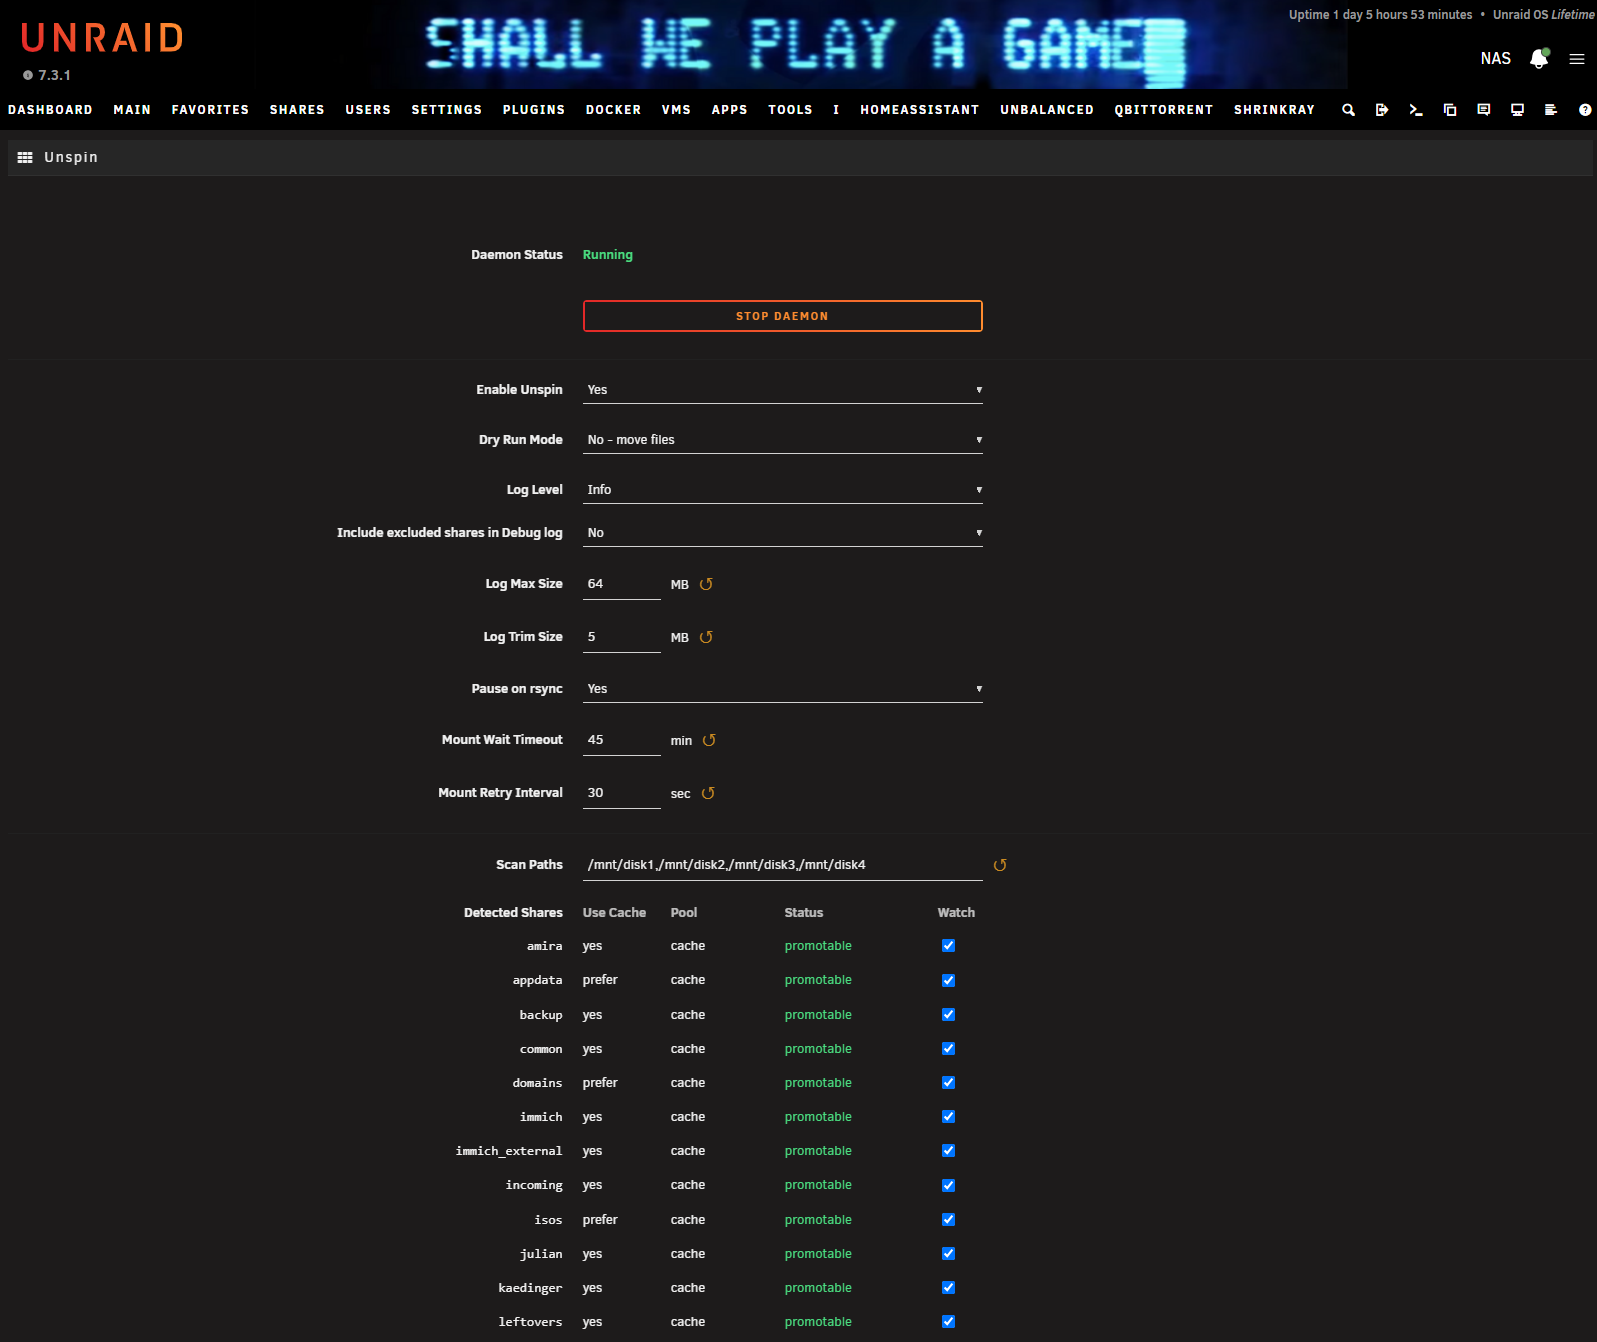
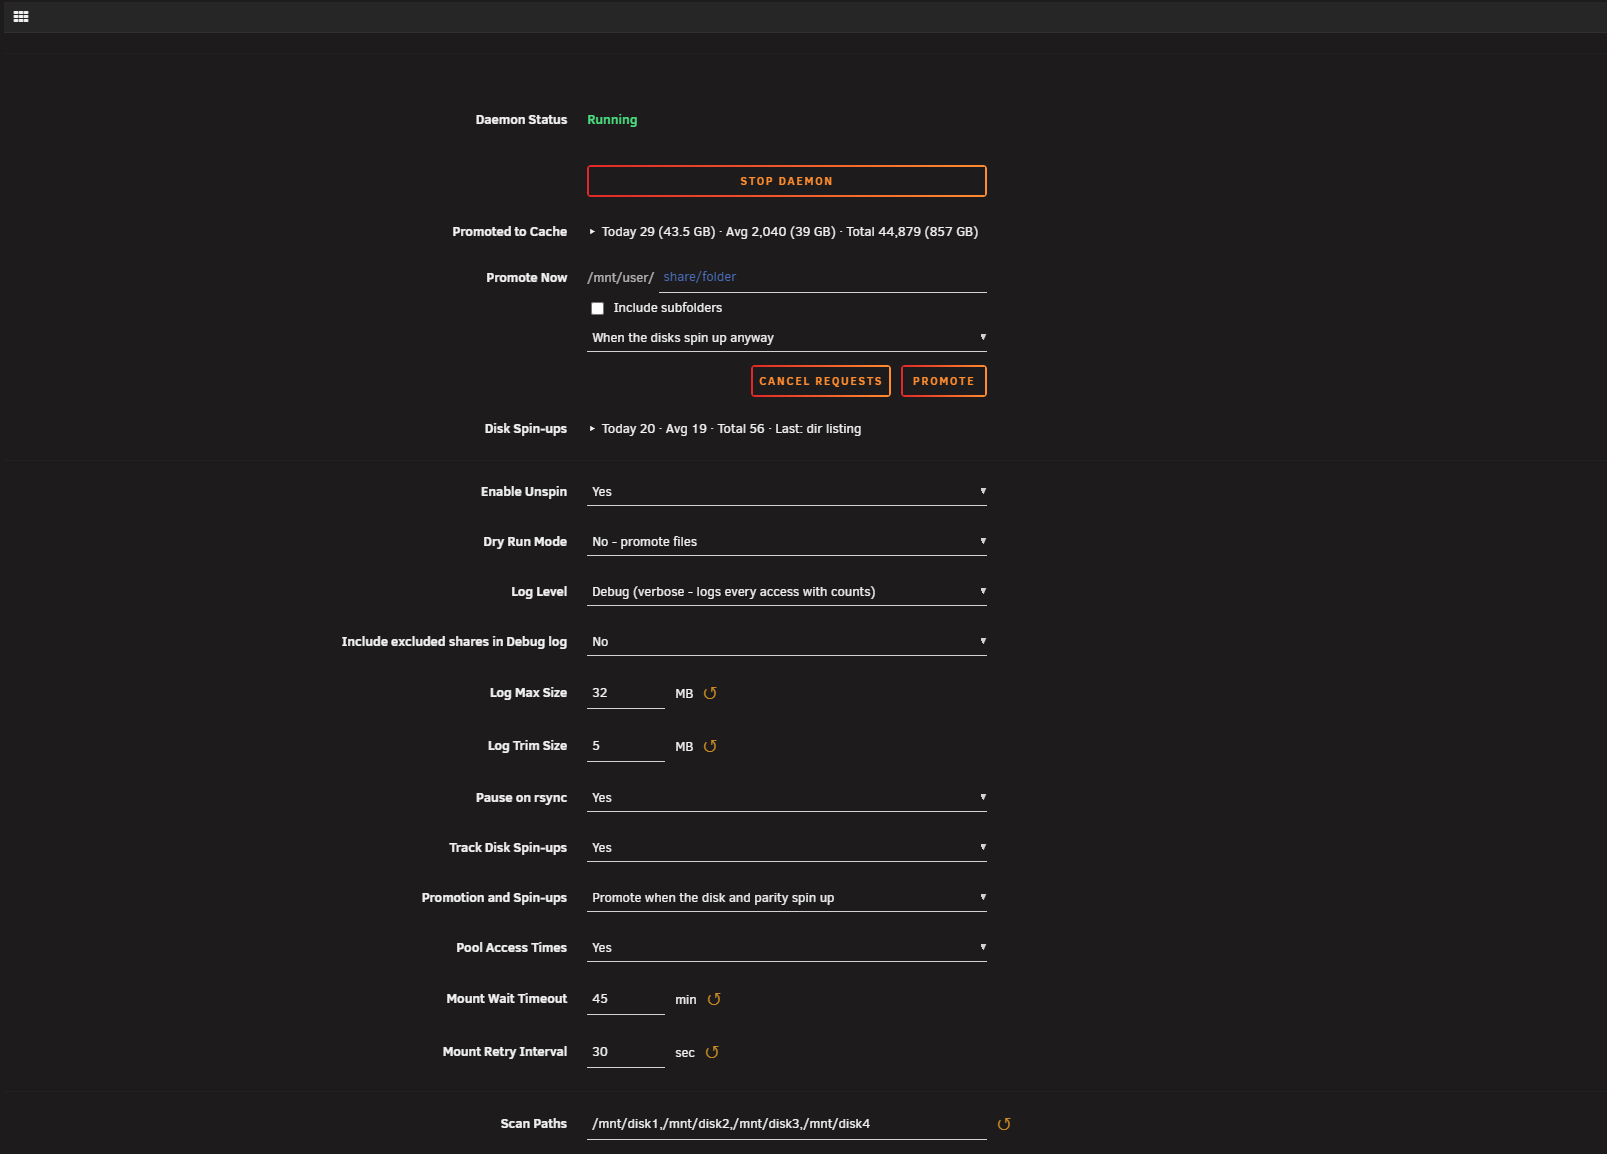
docs: new screenshots, README notes that marked files wait for pool space

diff --git a/README.md b/README.md
@@ -36,7 +36,7 @@ Make sure this does what you want! There's a dry-run mode; use it!
 
 Promotion is always deferred until all open handles on the file are closed. Unlinking the source while a reader (SMB, NFS, local process) still holds an fd would cause the client to lose the file - shfs does not redirect to the cache copy mid-stream. By waiting for close, the next open transparently picks up the promoted copy.
 
-Unspin never spins up a data disk. A file can be read from RAM while its disk is spun down, or the disk can spin down while a promotion waits (for the file to be closed, for the Mover or for a pause). By default the file is then marked and promoted as soon as its disk spins up for another reason; the marks survive a reboot. Unspin takes the spin state from Unraid and never touches a spun-down disk itself. Parity is different: a promotion removes the original from the array, which is a write, so a spun-down parity disk spins up for it. The setting Promotion and Spin-ups can wait for parity too, so a promotion spins up nothing at all, or skip such promotions. Every decision is logged.
+Unspin never spins up a data disk. A file can be read from RAM while its disk is spun down, or the disk can spin down while a promotion waits (for the file to be closed, for the Mover or for a pause). By default the file is then marked and promoted as soon as its disk spins up for another reason; the marks survive a reboot. Marked files also wait for room when the pool is full, instead of being dropped. Unspin takes the spin state from Unraid and never touches a spun-down disk itself. Parity is different: a promotion removes the original from the array, which is a write, so a spun-down parity disk spins up for it. The setting Promotion and Spin-ups can wait for parity too, so a promotion spins up nothing at all, or skip such promotions. Every decision is logged.
 
 There's no explicit cold demotion - for now we rely on Unraid's mover or CA's Mover Tuning.
 
@@ -279,6 +279,14 @@ A file is never lost, doubled, left half-copied or missing from the share: whate
 <img src="images/scr1_settings.png" alt="Screenshot: Settings 1" />
 
 <img src="images/scr2_settings.png" alt="Screenshot: Settings 2" />
+
+<img src="images/scr_cache_statistics.png" alt="Screenshot: Promoted to Cache statistics" />
+
+<img src="images/scr_spinup_statistics.png" alt="Screenshot: Disk Spin-ups statistics" />
+
+<img src="images/scr_latest_spinups.png" alt="Screenshot: Latest Disk Spin-ups per disk" />
+
+<img src="images/scr_detected_shares.png" alt="Screenshot: Detected Shares" />
 
 <img src="images/scr3_log.png" alt="Screenshot: Log view" />
 
